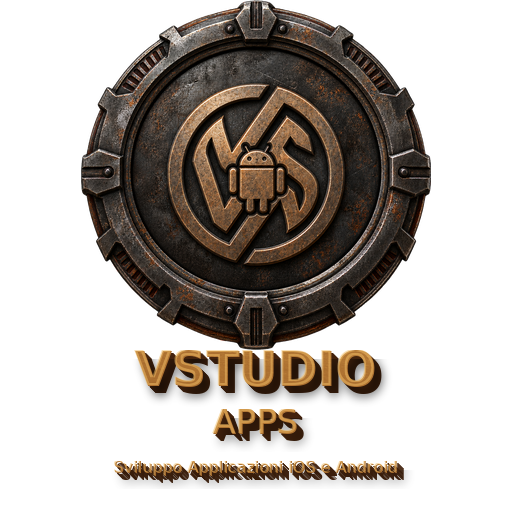
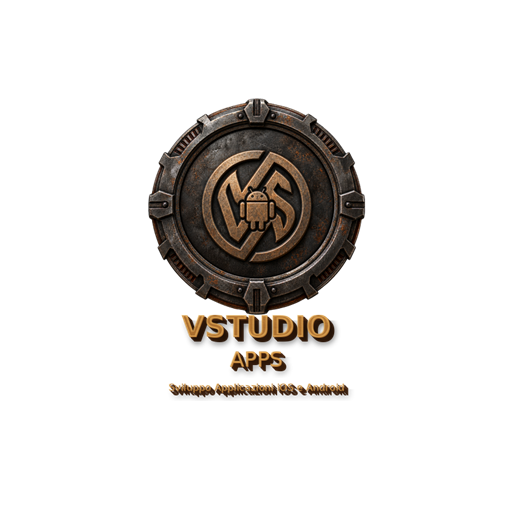
Quest: galleria mappe con anteprime, palette colori nome, fix ritorno app, icona
- Galleria mappe (scheda Bot) con vere card cliccabili + anteprima levelshot
  decodificata dai .pk3 (QuestImageConversionService/QuestMapPreviewService,
  stesso schema SkiaSharp+Pfim del progetto Mac), al posto del ComboBox solo testo
- Scansione mappe resa asincrona (Task.Run): necessario dopo aver caricato sul
  Quest anche i pacchetti mappe community (~100+ mappe), altrimenti congelava la UI
- Scheda Personaggio: palette di 8 pallini colore cliccabili per comporre il nome
  colorato (^0-^7), invece del solo testo esplicativo
- Fix: avvio di Quake3Quest ora dall'Activity corrente invece che da
  Application.Context, cosi' NON serve piu' il flag NEW_TASK - uscendo dal gioco
  si torna in questa app invece che alla Home del visore (bug reale segnalato)
- Icona app rigenerata con margine di sicurezza (safe zone ~66%) invece di
  riempire tutto il canvas 512x512: appariva troppo grande/tagliata nella libreria
- Logo nell'intestazione ridotto (48->30px, Stretch=Uniform)

diff --git a/src/Quake3InstaGibLauncher.Quest/ViewModels/QuestMainViewModel.cs b/src/Quake3InstaGibLauncher.Quest/ViewModels/QuestMainViewModel.cs
@@ -1,4 +1,5 @@
 using System.Collections.ObjectModel;
+using Avalonia.Media.Imaging;
 using CommunityToolkit.Mvvm.ComponentModel;
 using CommunityToolkit.Mvvm.Input;
 using Quake3InstaGibLauncher.Core.Models;
@@ -12,6 +13,28 @@ public enum QuestTab { Multiplayer, Lan, Bot, Profile }
 
 public sealed record ModelColorOption(int Value, string Name);
 
+/// <summary>Uno degli 8 codici colore standard Quake III (^0-^7) mostrato come pulsante-palette
+/// cliccabile nella scheda Personaggio, per comporre il nome colorato senza dover ricordare a
+/// memoria i codici - stessa idea della palette del launcher desktop.</summary>
+public sealed record NameColorSwatch(string Code, string HexColor);
+
+/// <summary>Una mappa nella galleria della scheda Bot, con l'anteprima (levelshot) gia' decodificata
+/// se disponibile. IsSelected e' locale alla UI (evidenzia la card scelta), non persiste.</summary>
+public sealed partial class MapPickerItem : ObservableObject
+{
+    public MapInfo Map { get; }
+    public Bitmap? Preview { get; }
+    public bool HasPreview => Preview is not null;
+
+    [ObservableProperty] private bool _isSelected;
+
+    public MapPickerItem(MapInfo map, Bitmap? preview)
+    {
+        Map = map;
+        Preview = preview;
+    }
+}
+
 /// <summary>
 /// ViewModel unico dell'app: tre "schede" (Multiplayer/Bot/Personaggio) pensate per essere usate
 /// col puntatore laser del controller Quest. Riusa il piu' possibile il Core gia' collaudato sul
@@ -23,6 +46,7 @@ public partial class QuestMainViewModel : ObservableObject
     private readonly Quake3ServerBrowser _browser = new();
     private readonly QuestLaunchService _launchService = new();
     private readonly QuestSettingsService _settingsService = new();
+    private readonly QuestMapPreviewService _mapPreviewService = new();
     private readonly QuestAppSettings _appSettings;
 
     private List<ServerInfo> _allFoundServers = new();
@@ -118,7 +142,7 @@ public partial class QuestMainViewModel : ObservableObject
     }
 
     // ===================== Scheda Bot (allenamento in locale) =====================
-    [ObservableProperty] private ObservableCollection<MapInfo> _availableMaps = new();
+    [ObservableProperty] private ObservableCollection<MapPickerItem> _availableMapItems = new();
 
     // NotifyCanExecuteChangedFor e' necessario qui (a differenza di Play/PlayLan): il pulsante
     // "AVVIA PARTITA CONTRO BOT" non ha un IsEnabled bindato a parte, si affida al solo
@@ -160,6 +184,18 @@ public partial class QuestMainViewModel : ObservableObject
     };
 
     public IReadOnlyList<int> AvailableCrosshairStyles { get; } = Enumerable.Range(1, 15).ToList();
+
+    /// <summary>Gli 8 codici colore standard Quake III, colori reali approssimati per lo swatch.</summary>
+    public IReadOnlyList<NameColorSwatch> AvailableNameColors { get; } = new[]
+    {
+        new NameColorSwatch("0", "#1A1A1A"), new NameColorSwatch("1", "#E33"),
+        new NameColorSwatch("2", "#3C3"), new NameColorSwatch("3", "#DD3"),
+        new NameColorSwatch("4", "#33E"), new NameColorSwatch("5", "#3CC"),
+        new NameColorSwatch("6", "#D3D"), new NameColorSwatch("7", "#EEE"),
+    };
+
+    [RelayCommand]
+    private void AppendNameColor(string code) => ProfileColoredName += $"^{code}";
 
     partial void OnProfileColoredNameChanged(string value) => SaveProfile(p => p.ColoredName = value);
     partial void OnProfileCrosshairStyleChanged(int value) => SaveProfile(p => p.CrosshairStyle = value);
@@ -271,23 +307,67 @@ public partial class QuestMainViewModel : ObservableObject
     private bool CanPlay(ServerInfo? server) => (server ?? SelectedServer) is not null;
 
     // ===================== Comandi Bot =====================
-    [RelayCommand]
-    private void RefreshMaps()
+    [ObservableProperty] private bool _isScanningMaps;
+
+    [RelayCommand(CanExecute = nameof(CanRefreshMaps))]
+    private async Task RefreshMapsAsync()
     {
+        IsScanningMaps = true;
+        BotStatusMessage = "Scansione mappe in corso (puo' richiedere qualche secondo con molte mappe custom)...";
+
         try
         {
-            var result = _launchService.ScanMaps();
-            AvailableMaps = new ObservableCollection<MapInfo>(result.Maps.OrderBy(m => m.TechnicalName));
-            SelectedMap ??= AvailableMaps.FirstOrDefault();
+            // Fuori dal thread UI: con i pacchetti mappe community (es. q3wpak0-4) si arriva
+            // facilmente a un centinaio di mappe, decodificare tutte le anteprime in modo
+            // sincrono sul thread UI congelerebbe visibilmente l'app per diversi secondi.
+            var items = await Task.Run(() =>
+            {
+                var result = _launchService.ScanMaps();
+                return result.Maps
+                    .OrderBy(m => m.TechnicalName)
+                    .Select(m =>
+                    {
+                        var previewPath = _mapPreviewService.GetOrCreatePreviewPath(m);
+                        Bitmap? preview = null;
+                        if (previewPath is not null)
+                        {
+                            try { preview = new Bitmap(previewPath); }
+                            catch { /* file di cache corrotto: si mostra il segnaposto */ }
+                        }
+                        return new MapPickerItem(m, preview);
+                    })
+                    .ToList();
+            });
 
-            BotStatusMessage = AvailableMaps.Count > 0
-                ? $"{AvailableMaps.Count} mappe trovate."
+            AvailableMapItems = new ObservableCollection<MapPickerItem>(items);
+
+            var toSelect = AvailableMapItems.FirstOrDefault(i => i.Map.TechnicalName == SelectedMap?.TechnicalName)
+                ?? AvailableMapItems.FirstOrDefault();
+            SelectMap(toSelect);
+
+            BotStatusMessage = AvailableMapItems.Count > 0
+                ? $"{AvailableMapItems.Count} mappe trovate."
                 : "Nessuna mappa trovata: apri prima Quake3Quest almeno una volta.";
         }
         catch (Exception ex)
         {
             BotStatusMessage = $"Scansione mappe fallita: {ex.Message}";
         }
+        finally
+        {
+            IsScanningMaps = false;
+        }
+    }
+
+    private bool CanRefreshMaps() => !IsScanningMaps;
+
+    [RelayCommand]
+    private void SelectMap(MapPickerItem? item)
+    {
+        foreach (var existing in AvailableMapItems)
+            existing.IsSelected = ReferenceEquals(existing, item);
+
+        SelectedMap = item?.Map;
     }
 
     [RelayCommand(CanExecute = nameof(CanStartBotMatch))]

diff --git a/src/Quake3InstaGibLauncher.Quest/Services/QuestImageConversionService.cs b/src/Quake3InstaGibLauncher.Quest/Services/QuestImageConversionService.cs
@@ -1,0 +1,87 @@
+using Pfim;
+using SkiaSharp;
+
+namespace Quake3InstaGibLauncher.Quest.Services;
+
+/// <summary>
+/// Decodifica le anteprime (levelshot) estratte dai .pk3 per la galleria mappe della scheda Bot.
+/// Identica a MacImageConversionService (stessa piattaforma Avalonia/SkiaSharp): JPG/PNG via
+/// SkiaSharp, TGA via Pfim + conversione manuale in SKBitmap. Duplicata invece di condivisa dal
+/// Core per non introdurre una dipendenza SkiaSharp/Pfim nel Core (che oggi ne e' volutamente
+/// privo per restare un puro class library platform-agnostic).
+/// </summary>
+public static class QuestImageConversionService
+{
+    public static byte[] ConvertToPngBytes(byte[] rawEntryBytes, string virtualEntryPath)
+    {
+        var ext = Path.GetExtension(virtualEntryPath).ToLowerInvariant();
+
+        if (ext is ".jpg" or ".jpeg" or ".png")
+        {
+            using var bitmap = SKBitmap.Decode(rawEntryBytes);
+            if (bitmap is null)
+                throw new InvalidOperationException($"Impossibile decodificare l'immagine: {virtualEntryPath}");
+
+            return EncodeAsPng(bitmap);
+        }
+
+        if (ext == ".tga")
+        {
+            using var input = new MemoryStream(rawEntryBytes);
+            using var image = Targa.Create(input, new PfimConfig());
+            using var bitmap = ToSkBitmap(image);
+            return EncodeAsPng(bitmap);
+        }
+
+        throw new NotSupportedException($"Formato immagine non supportato: {virtualEntryPath}");
+    }
+
+    private static SKBitmap ToSkBitmap(IImage image)
+    {
+        byte[] pixelData;
+        if (image.Format == Pfim.ImageFormat.Rgb24)
+        {
+            pixelData = new byte[image.Width * image.Height * 4];
+            var src = image.Data;
+            var srcStride = image.Stride;
+            for (var y = 0; y < image.Height; y++)
+            {
+                var srcRow = y * srcStride;
+                var dstRow = y * image.Width * 4;
+                for (var x = 0; x < image.Width; x++)
+                {
+                    var s = srcRow + x * 3;
+                    var d = dstRow + x * 4;
+                    pixelData[d + 0] = src[s + 0];
+                    pixelData[d + 1] = src[s + 1];
+                    pixelData[d + 2] = src[s + 2];
+                    pixelData[d + 3] = 255;
+                }
+            }
+        }
+        else
+        {
+            pixelData = image.Data;
+        }
+
+        var info = new SKImageInfo(image.Width, image.Height, SKColorType.Bgra8888, SKAlphaType.Premul);
+        var bitmap = new SKBitmap(info);
+
+        unsafe
+        {
+            fixed (byte* ptr = pixelData)
+            {
+                bitmap.InstallPixels(info, (IntPtr)ptr, image.Width * 4);
+            }
+        }
+
+        return bitmap.Copy();
+    }
+
+    private static byte[] EncodeAsPng(SKBitmap bitmap)
+    {
+        using var image = SKImage.FromBitmap(bitmap);
+        using var data = image.Encode(SKEncodedImageFormat.Png, quality: 100);
+        return data.ToArray();
+    }
+}

diff --git a/src/Quake3InstaGibLauncher.Quest/Services/QuestMapPreviewService.cs b/src/Quake3InstaGibLauncher.Quest/Services/QuestMapPreviewService.cs
@@ -1,0 +1,45 @@
+using Quake3InstaGibLauncher.Core.Models;
+using Quake3InstaGibLauncher.Core.Services;
+
+namespace Quake3InstaGibLauncher.Quest.Services;
+
+/// <summary>
+/// Genera/legge le anteprime PNG delle mappe (levelshot) nella cache privata dell'app
+/// (Context.CacheDir: gestita dal sistema, non richiede permessi, ripulita automaticamente se
+/// serve spazio). Stesso schema concettuale di MapCacheService (Core) ma senza passare da
+/// AppPaths, il cui fallback generico per "altri Unix" non e' garantito adatto ad Android:
+/// meglio usare direttamente la cartella cache ufficiale della piattaforma.
+/// </summary>
+public sealed class QuestMapPreviewService
+{
+    private string CacheDir => Path.Combine(
+        global::Android.App.Application.Context.CacheDir!.AbsolutePath, "map_previews");
+
+    /// <summary>Percorso del PNG di anteprima per questa mappa, generandolo al volo dal .pk3 se
+    /// non e' gia' in cache. Null se la mappa non ha alcun levelshot nei suoi .pk3.</summary>
+    public string? GetOrCreatePreviewPath(MapInfo map)
+    {
+        if (map.LevelshotEntryPath is null || map.LevelshotPk3FullPath is null)
+            return null;
+
+        Directory.CreateDirectory(CacheDir);
+
+        var safeName = string.Concat(map.TechnicalName.Where(c => char.IsLetterOrDigit(c) || c is '_' or '-'));
+        var cacheFilePath = Path.Combine(CacheDir, $"{map.Source}_{safeName}.png".ToLowerInvariant());
+
+        if (File.Exists(cacheFilePath))
+            return cacheFilePath;
+
+        try
+        {
+            var rawBytes = Pk3Scanner.ReadEntryBytes(map.LevelshotPk3FullPath, map.LevelshotEntryPath);
+            var pngBytes = QuestImageConversionService.ConvertToPngBytes(rawBytes, map.LevelshotEntryPath);
+            File.WriteAllBytes(cacheFilePath, pngBytes);
+            return cacheFilePath;
+        }
+        catch
+        {
+            return null; // anteprima non generabile (pk3 corrotto, formato raro): la UI mostra un segnaposto
+        }
+    }
+}

diff --git a/src/Quake3InstaGibLauncher.Quest/Services/QuestLaunchService.cs b/src/Quake3InstaGibLauncher.Quest/Services/QuestLaunchService.cs
@@ -153,18 +153,27 @@ public sealed class QuestLaunchService
 
     private QuestLaunchOutcome WriteCommandlineAndLaunch(List<string> engineArgs, string successMessage)
     {
-        var context = global::Android.App.Application.Context;
-
         var fullArgs = new List<string> { "+set", "fs_basepath", $"{SdCardEngineRoot}/" };
         fullArgs.AddRange(engineArgs);
 
         File.WriteAllText(CommandlineTxtPath, JoinArgsForCommandlineTxt(fullArgs));
 
+        // Preferiamo avviare dall'Activity corrente (senza NEW_TASK) cosi' Quake3Quest resta
+        // nello STESSO task Android della nostra app: uscendo/tornando indietro da Quake3Quest,
+        // il sistema torna qui invece che alla Home del visore (bug reale segnalato dall'utente:
+        // "quando esco dal gioco non mi fa tornare dove cerco le partite"). Se per qualche motivo
+        // l'Activity non e' disponibile (avvio da un contesto anomalo), ripieghiamo su
+        // Application.Context + NEW_TASK, l'unica combinazione che Android accetta in quel caso.
+        var activity = MainActivity.Current;
+        var context = (Android.Content.Context?)activity ?? global::Android.App.Application.Context;
+
         var intent = context.PackageManager?.GetLaunchIntentForPackage(QuakeQuestPackageName);
         if (intent is null)
             return new QuestLaunchOutcome(false, "Impossibile creare l'avvio per Quake3Quest.");
 
-        intent.AddFlags(ActivityFlags.NewTask);
+        if (activity is null)
+            intent.AddFlags(ActivityFlags.NewTask);
+
         context.StartActivity(intent);
 
         return new QuestLaunchOutcome(true, successMessage);

diff --git a/src/Quake3InstaGibLauncher.Quest/MainActivity.cs b/src/Quake3InstaGibLauncher.Quest/MainActivity.cs
@@ -22,6 +22,30 @@ namespace Quake3InstaGibLauncher.Quest;
     ConfigurationChanges = ConfigChanges.Orientation | ConfigChanges.ScreenSize | ConfigChanges.UiMode)]
 public class MainActivity : AvaloniaMainActivity<App>
 {
+    /// <summary>
+    /// Riferimento all'Activity corrente, usato da QuestLaunchService per avviare Quake3Quest
+    /// SENZA il flag NEW_TASK. Bug reale segnalato dall'utente: avviando Quake3Quest da
+    /// Application.Context (l'unico modo consentito da Android per farlo senza un'Activity: il
+    /// flag NEW_TASK e' obbligatorio in quel caso) si crea un task separato nella cronologia
+    /// recenti, quindi uscendo/tornando indietro da Quake3Quest il sistema NON torna a questa
+    /// app ma alla Home del visore. Avviandolo invece da questa Activity, nello stesso task,
+    /// il normale comportamento "indietro" di Android riporta qui.
+    /// </summary>
+    public static MainActivity? Current { get; private set; }
+
+    protected override void OnResume()
+    {
+        base.OnResume();
+        Current = this;
+    }
+
+    protected override void OnPause()
+    {
+        if (ReferenceEquals(Current, this))
+            Current = null;
+        base.OnPause();
+    }
+
     protected override AppBuilder CustomizeAppBuilder(AppBuilder builder)
     {
         return base.CustomizeAppBuilder(builder)

diff --git a/src/Quake3InstaGibLauncher.Quest/Converters/BoolToBorderThicknessConverter.cs b/src/Quake3InstaGibLauncher.Quest/Converters/BoolToBorderThicknessConverter.cs
@@ -1,0 +1,17 @@
+using System.Globalization;
+using Avalonia;
+using Avalonia.Data.Converters;
+
+namespace Quake3InstaGibLauncher.Quest.Converters;
+
+/// <summary>True -> bordo spesso (evidenzia la card mappa selezionata), False -> nessun bordo.</summary>
+public sealed class BoolToBorderThicknessConverter : IValueConverter
+{
+    public static readonly BoolToBorderThicknessConverter Instance = new();
+
+    public object? Convert(object? value, Type targetType, object? parameter, CultureInfo culture)
+        => value is true ? new Thickness(3) : new Thickness(0);
+
+    public object? ConvertBack(object? value, Type targetType, object? parameter, CultureInfo culture)
+        => throw new NotSupportedException();
+}
